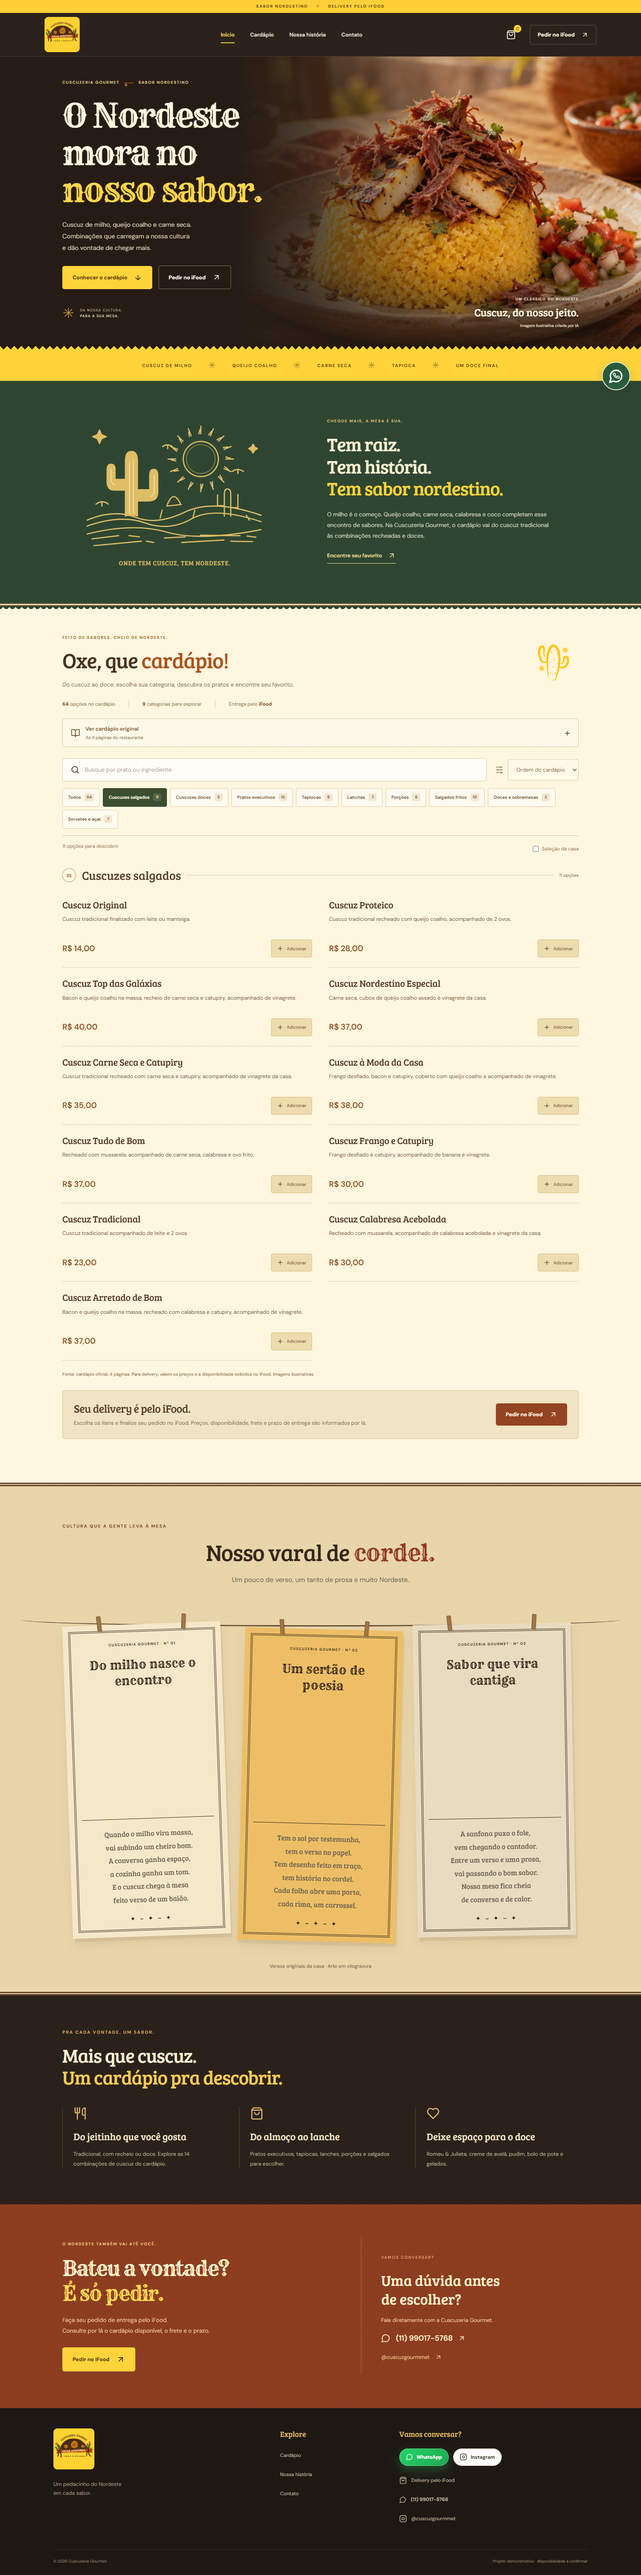
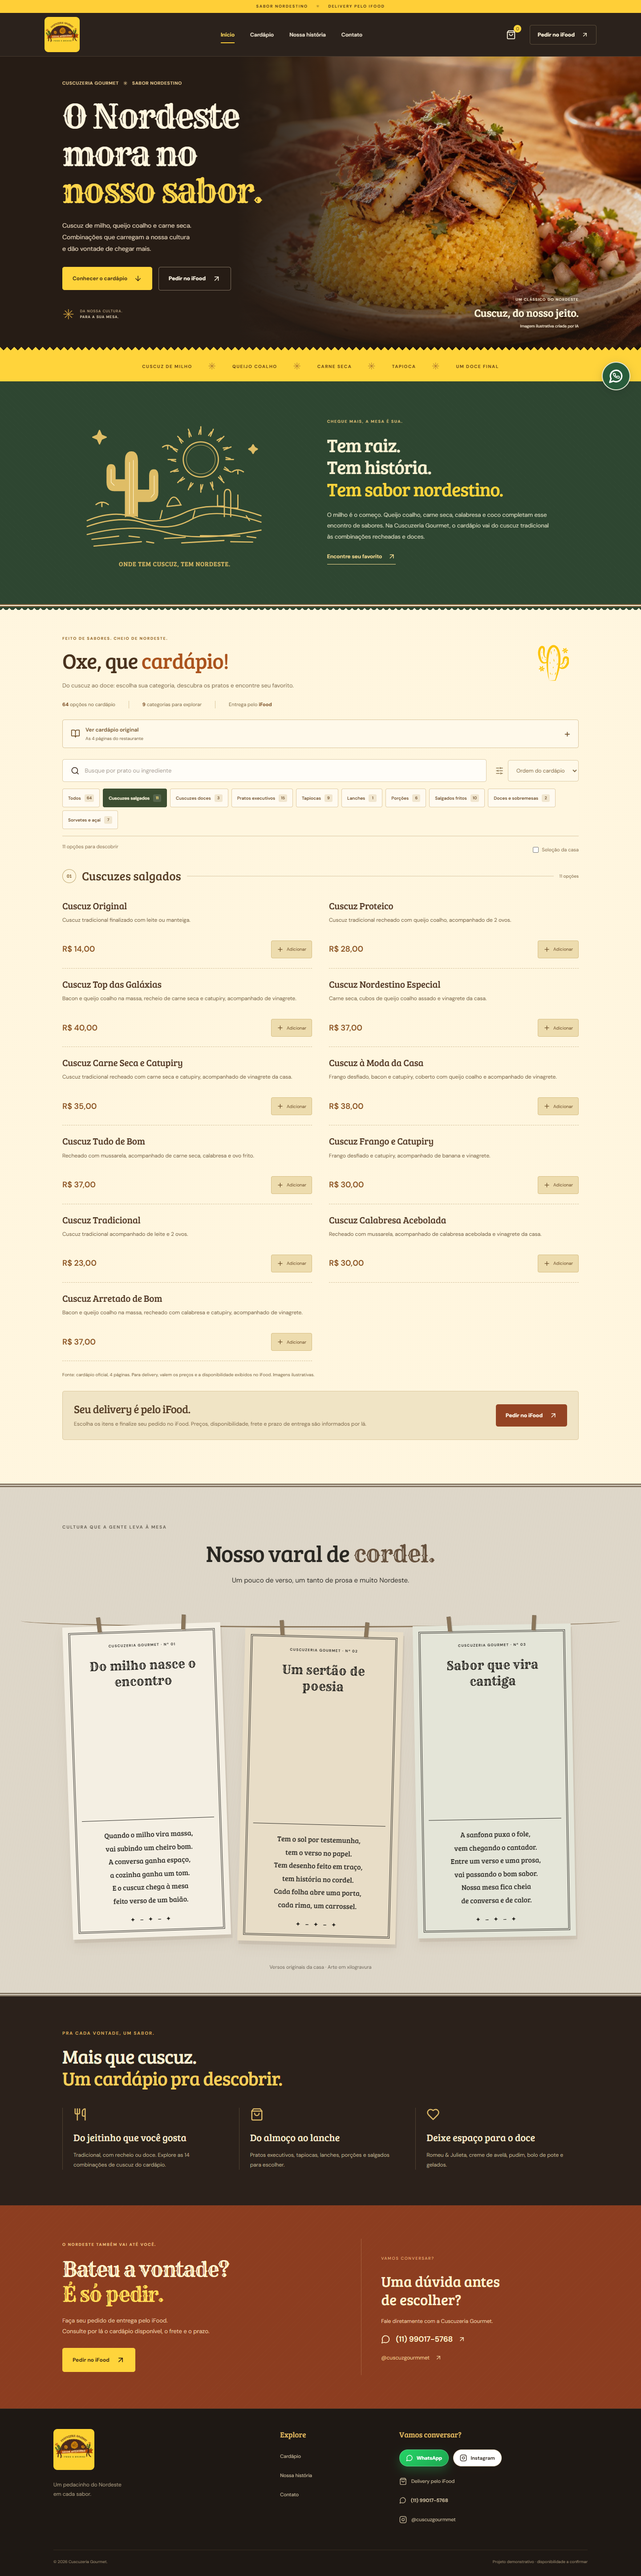
fix: correct mobile hero brand line alignment

diff --git a/tests/interface.spec.ts b/tests/interface.spec.ts
@@ -184,3 +184,26 @@ test("storage failure keeps the in-memory cart usable and explains the limitatio
  await page.locator('.cart-row .stepper button').last().click();
  await expect(page.locator('.cart-row .stepper span')).toHaveText('2');
 });
+
+
+test('hero brand line remains readable without clipped decoration on narrow screens', async ({page}) => {
+ for(const width of [320,360,390,430,768]) {
+  await page.setViewportSize({width,height:900});
+  await page.goto('/');
+  const line=page.locator('.hero-brandline');
+  await expect(line).toHaveCSS('font-size','10px');
+  for(const selector of ['.hero-brandline-name','.hero-brandline-tagline']) {
+   const label=line.locator(selector);
+   await expect(label).toBeVisible();
+   await expect(label).toHaveCSS('background-color','rgba(0, 0, 0, 0)');
+   const rect=await label.boundingBox();
+   expect(rect!.height).toBeGreaterThanOrEqual(16);
+   expect(rect!.x).toBeGreaterThanOrEqual(0);
+   expect(rect!.x+rect!.width).toBeLessThanOrEqual(width);
+  }
+  const symbol=line.locator('.hero-brandline-symbol');
+  if(width<360)await expect(symbol).toBeHidden();
+  else {await expect(symbol).toHaveCSS('height','12px');await expect(symbol).toHaveCSS('background-color','rgba(0, 0, 0, 0)');}
+  expect(await page.evaluate(()=>document.documentElement.scrollWidth<=innerWidth)).toBe(true);
+ }
+});

diff --git a/src/pages/Home.tsx b/src/pages/Home.tsx
@@ -1,7 +1,7 @@
 import { assetPath } from "../config/paths";
 import { site, whatsappLink } from "../config/site";
 import { copy } from "../config/content";
-import {
+import {
   ArrowUpRight,
   ArrowDown,
   MessageCircle,
@@ -37,8 +37,11 @@ export function Home() {
             animate={{ opacity: 1, y: 0 }}
             transition={{ duration: 0.45 }}
           >
-            <div className="eyebrow">
-              {copy.Home.brandName}<span aria-hidden="true">{copy.Home.heroSymbol}</span> {copy.Home.tagline}</div>
+            <div className="eyebrow hero-brandline">
+              <span className="hero-brandline-name">{copy.Home.brandName.trim()}</span>
+              <span className="hero-brandline-symbol" aria-hidden="true">{copy.Home.heroSymbol}</span>
+              <span className="hero-brandline-tagline">{copy.Home.tagline.trim()}</span>
+            </div>
             <h1>
               {copy.Home.titleLineOne}<br />
               {copy.Home.titleLineTwo}<br />

diff --git a/src/styles/nordeste.css b/src/styles/nordeste.css
@@ -1434,3 +1434,30 @@ footer {
 @media (max-width: 640px) { .cordel-print { height: 260px; flex-basis: 260px; } }
 
 .cordel-heading > p, .cordel-verse { color: var(--color-cordelInk); }
+
+/* Keep brand text separate from the decorative line used by other eyebrows. */
+.nordeste-hero .hero-brandline {
+  font-size: 10px;
+  line-height: 1.6;
+  letter-spacing: .08em;
+  gap: 9px;
+  flex-wrap: wrap;
+}
+.nordeste-hero .hero-brandline > span {
+  width: auto;
+  height: auto;
+  background: none;
+  white-space: nowrap;
+}
+.nordeste-hero .hero-brandline-symbol {
+  display: inline-flex;
+  align-items: center;
+  justify-content: center;
+  flex: 0 0 12px;
+  font-size: 12px;
+  line-height: 1;
+}
+@media (max-width: 359px) {
+  .nordeste-hero .hero-brandline { flex-direction: column; align-items: flex-start; gap: 2px; }
+  .nordeste-hero .hero-brandline-symbol { display: none; }
+}
